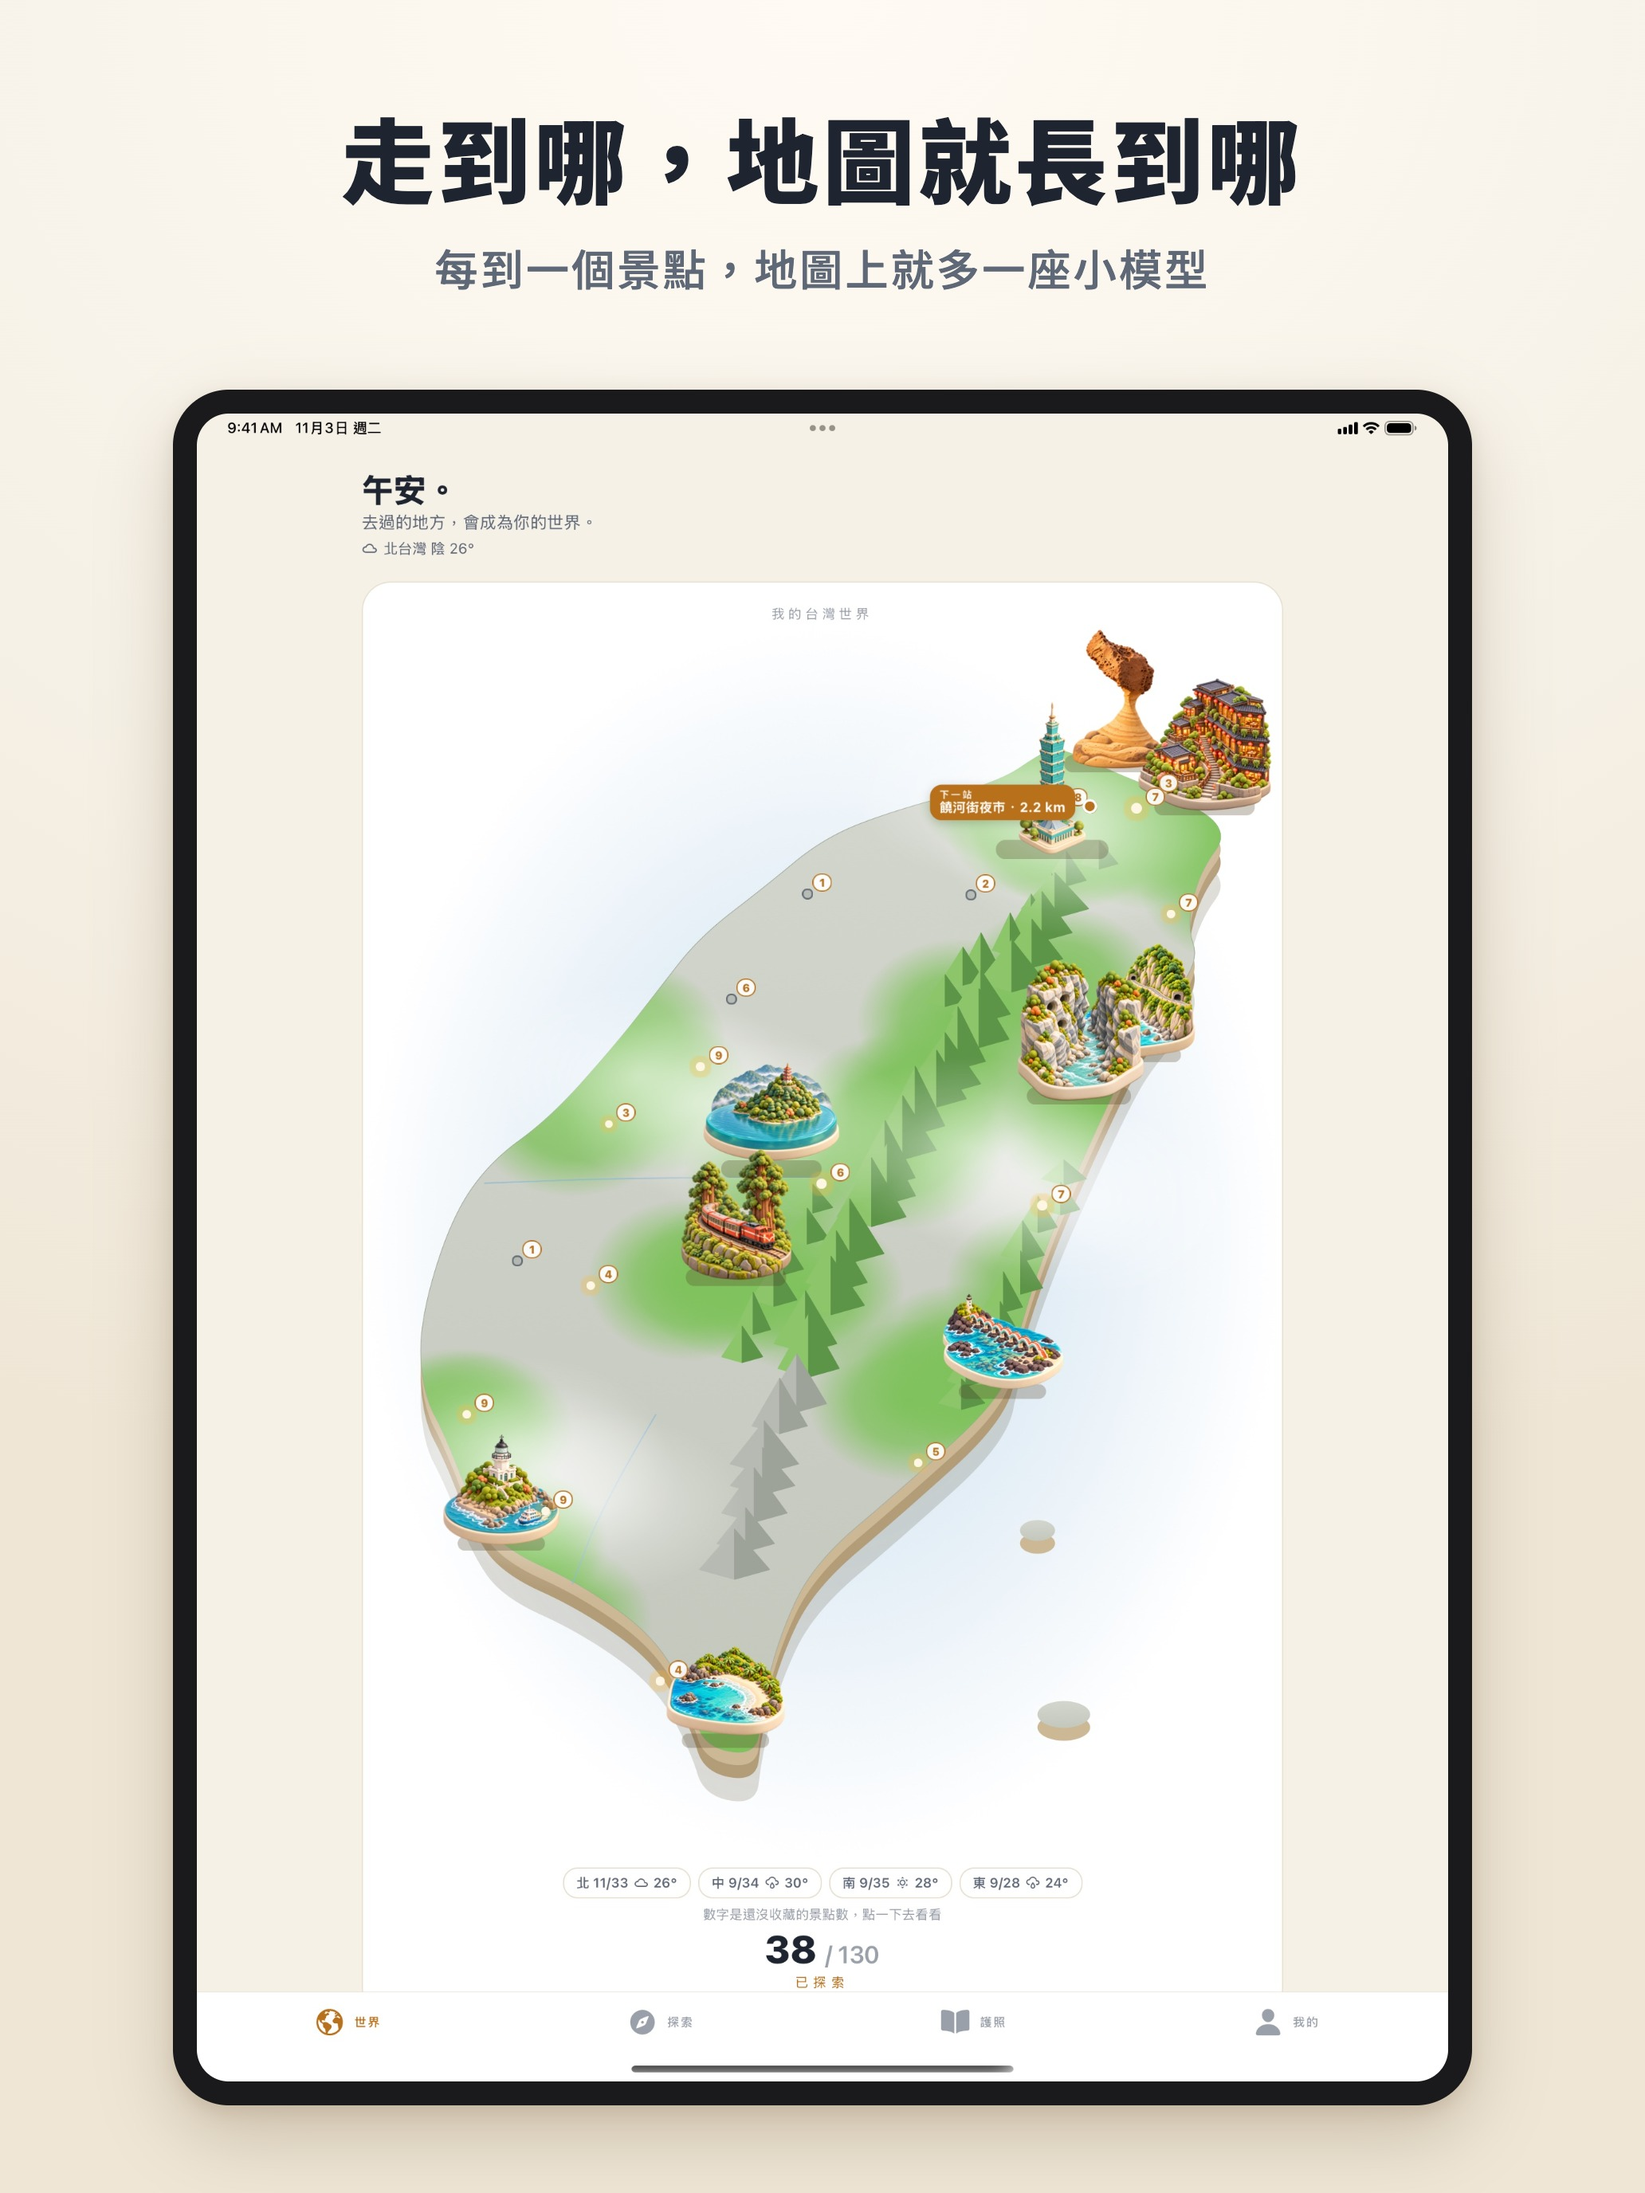
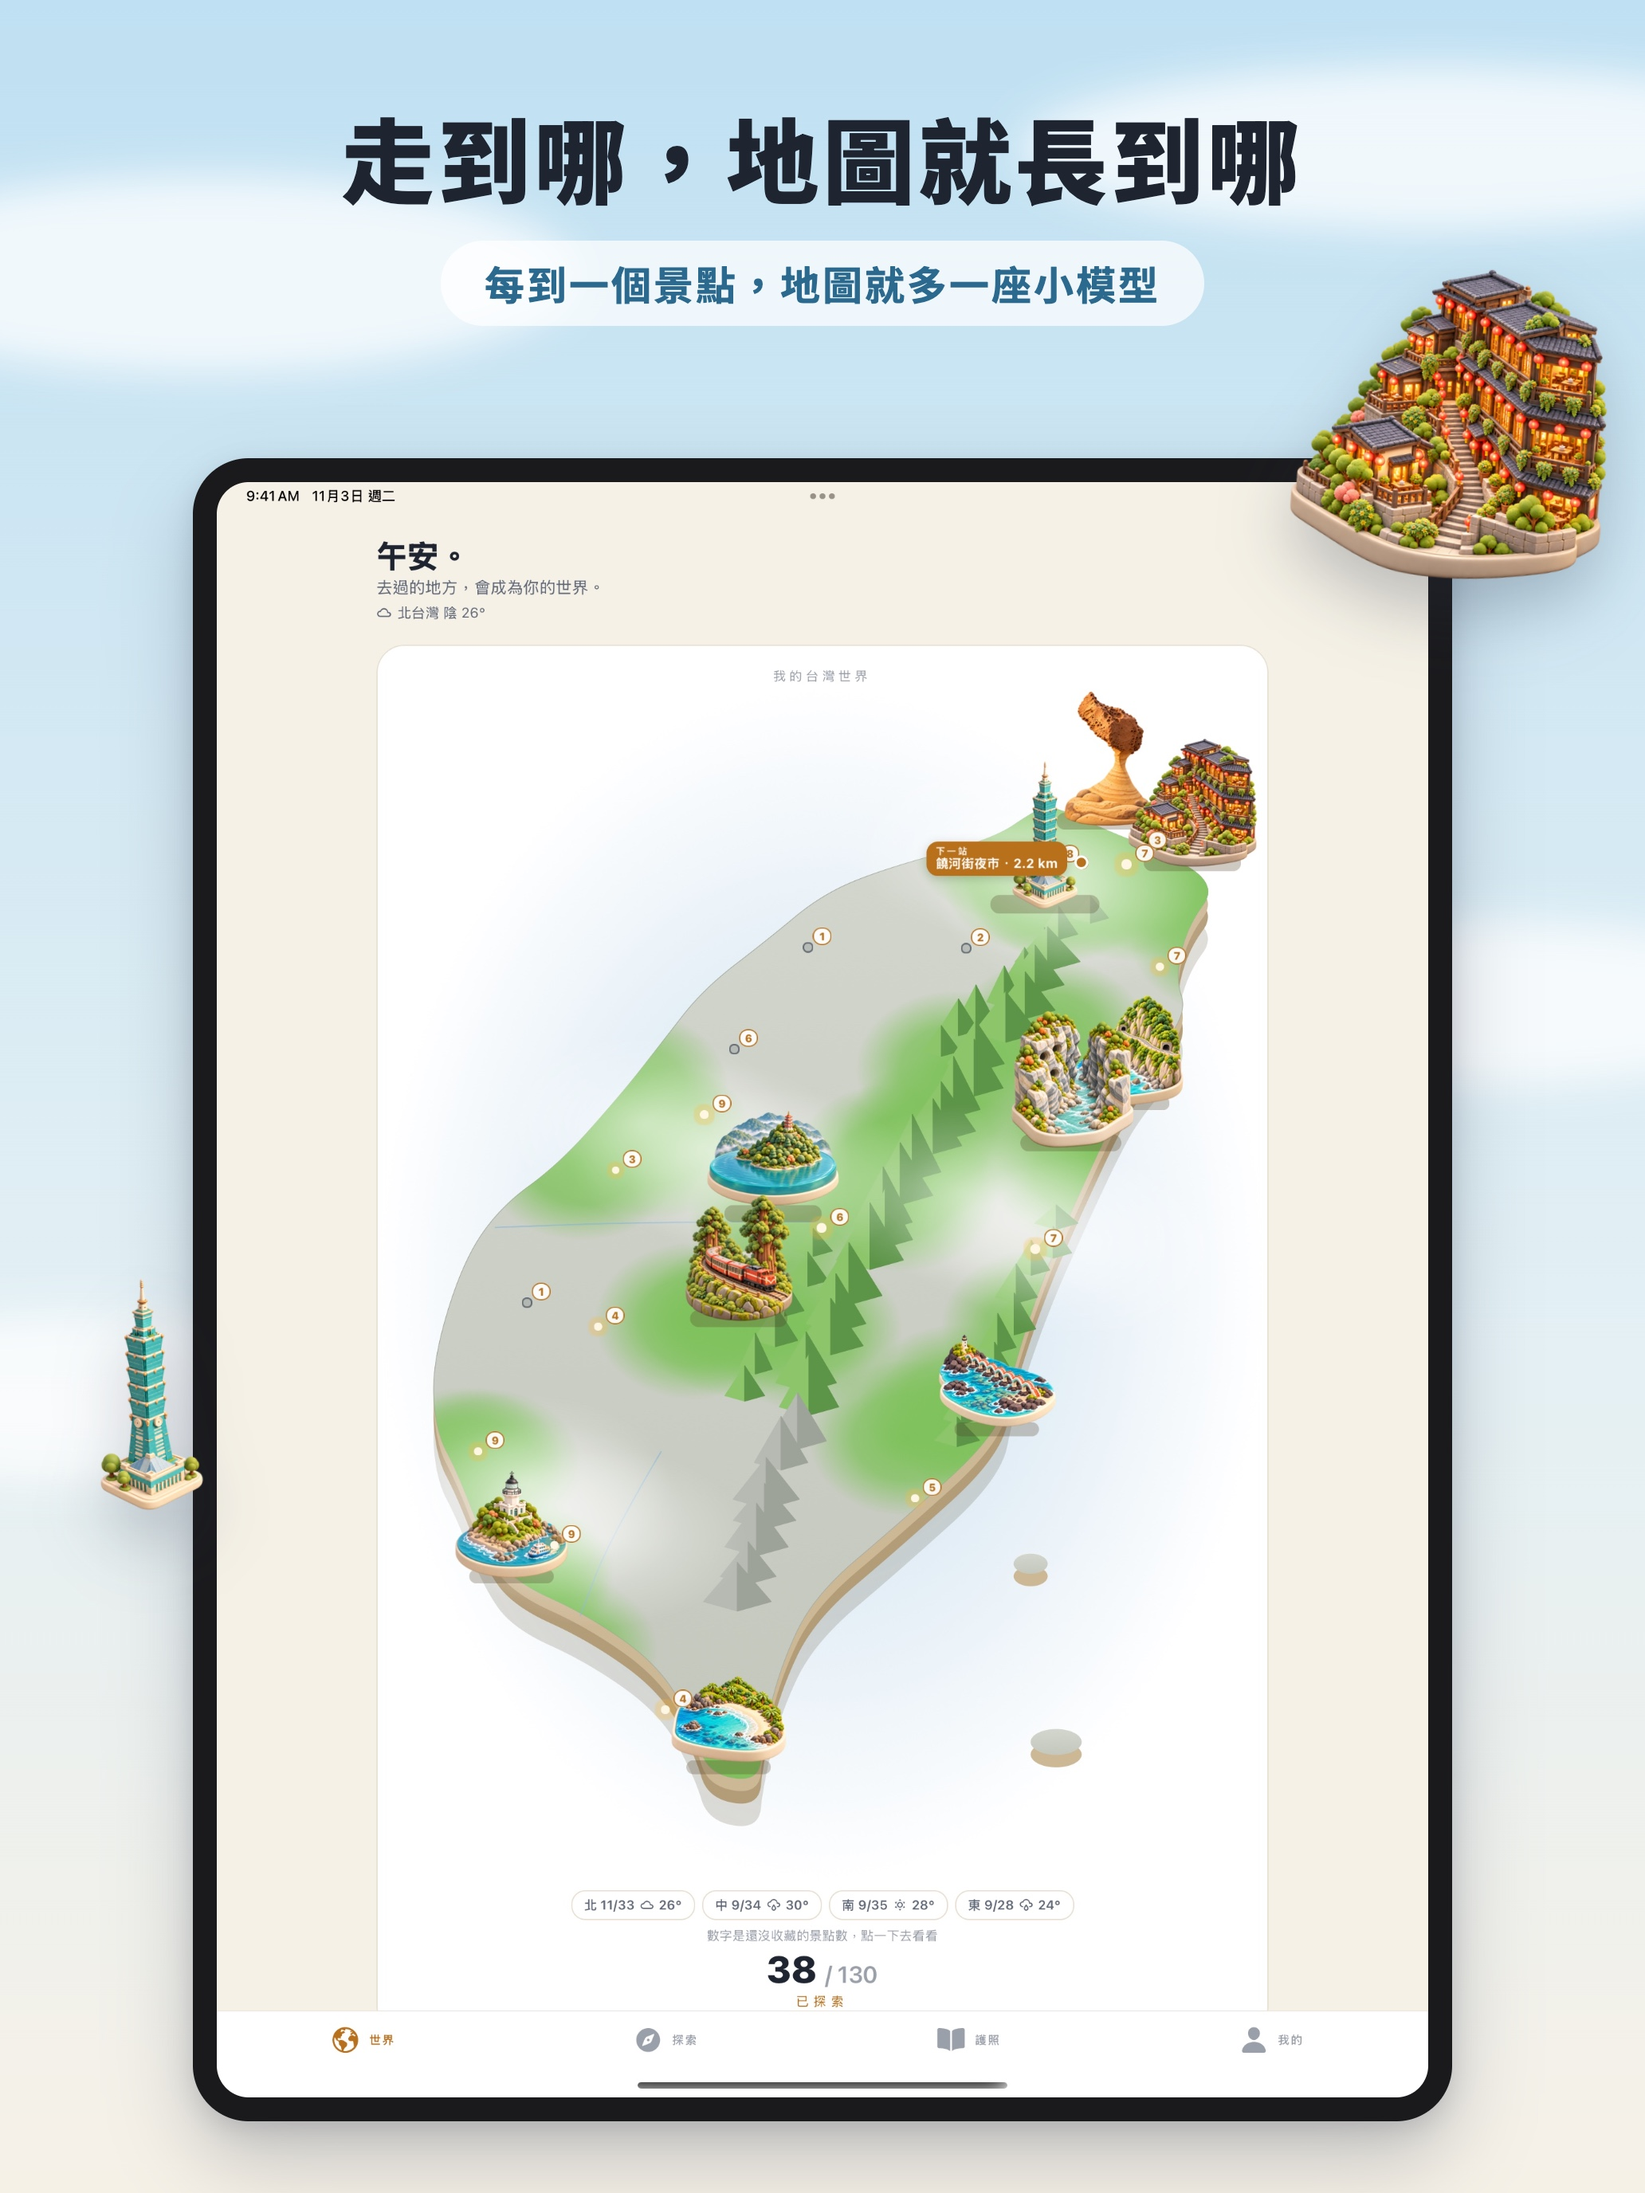
Livelier store assets: tinted backgrounds, landmark cutouts; creative assets as PNG plus 16:9 universal

diff --git a/store/marketing/templates/shot2.html b/store/marketing/templates/shot2.html
@@ -1,0 +1,28 @@
+<!doctype html><html><head><meta charset="utf-8">
+<link href="https://fonts.googleapis.com/css2?family=Noto+Sans+TC:wght@500;700;900&display=block" rel="stylesheet">
+<style>
+*{margin:0;padding:0;box-sizing:border-box}
+html,body{width:var(--W);height:var(--H);overflow:hidden;font-family:'Noto Sans TC',sans-serif}
+body{position:relative;background:linear-gradient(180deg,var(--c1) 0%,var(--c2) 62%,var(--c3) 100%)}
+.cloud{position:absolute;background:#fff;border-radius:50%;filter:blur(calc(var(--W)*.012));opacity:.75}
+.cap{position:absolute;left:0;right:0;top:calc(var(--H)*.045);text-align:center;padding:0 7%;z-index:3}
+h1{color:#1E2531;font-weight:900;font-size:var(--h1);line-height:1.25;letter-spacing:.04em}
+.pill{display:inline-block;margin-top:calc(var(--H)*.012);padding:.35em 1.1em;border-radius:999px;background:rgba(255,255,255,.72);color:var(--ink);font-weight:700;font-size:var(--p);letter-spacing:.06em}
+.dev{position:absolute;left:50%;transform:translateX(-50%);background:#1A1A1C;padding:var(--bz);border-radius:var(--r);box-shadow:0 50px 100px rgba(40,50,70,.25),0 10px 30px rgba(40,50,70,.15);z-index:1}
+.dev img{display:block;width:var(--sw);border-radius:calc(var(--r) - var(--bz))}
+.deco{position:absolute;z-index:2;filter:drop-shadow(0 calc(var(--W)*.02) calc(var(--W)*.02) rgba(40,50,70,.28))}
+.spark{position:absolute;z-index:2;color:#fff;text-shadow:0 0 30px rgba(255,190,90,.9);font-weight:900}
+</style></head><body>
+<div class="cap"><h1 id="h"></h1><div class="pill" id="s"></div></div>
+<div class="dev" id="d"><img id="i"></div>
+<script>
+const q=JSON.parse(decodeURIComponent(location.hash.slice(1)));
+const R=document.documentElement.style;const W=q.W,H=q.H;
+for(const k of['W','H','h1','p','sw','bz','r'])R.setProperty('--'+k,q[k]+'px');
+for(const k of['c1','c2','c3','ink'])R.setProperty('--'+k,q[k]);
+document.getElementById('h').textContent=q.title;document.getElementById('s').textContent=q.sub;
+document.getElementById('d').style.bottom=q.bottom+'px';document.getElementById('i').src=q.img;
+(q.clouds||[]).forEach(([x,y,w,h])=>{const c=document.createElement('div');c.className='cloud';Object.assign(c.style,{left:x*W+'px',top:y*H+'px',width:w*W+'px',height:h*W+'px'});document.body.appendChild(c)});
+(q.deco||[]).forEach(d=>{const im=new Image();im.className='deco';im.src=q.A+'/'+d.id+'/world/landmark.webp';Object.assign(im.style,{left:d.x*W+'px',top:d.y*H+'px',width:d.w*W+'px',transform:`rotate(${d.rot||0}deg)`});document.body.appendChild(im)});
+(q.sparks||[]).forEach(([x,y,s])=>{const e=document.createElement('div');e.className='spark';e.textContent='✦';Object.assign(e.style,{left:x*W+'px',top:y*H+'px',fontSize:s*W+'px'});document.body.appendChild(e)});
+</script></body></html>

diff --git a/store/marketing/templates/hero2.html b/store/marketing/templates/hero2.html
@@ -1,0 +1,23 @@
+<!doctype html><html><head><meta charset="utf-8">
+<link href="https://fonts.googleapis.com/css2?family=Noto+Sans+TC:wght@700;900&display=block" rel="stylesheet">
+<style>
+*{margin:0;padding:0;box-sizing:border-box}
+html,body{width:var(--W);height:var(--H);overflow:hidden;font-family:'Noto Sans TC',sans-serif}
+body{position:relative;background:radial-gradient(70% 38% at 50% 92%,rgba(160,210,170,.55),rgba(160,210,170,0) 100%),linear-gradient(180deg,#B9DDF1 0%,#DCEEF4 40%,#F4EEDF 72%,#EFE2C6 100%)}
+.cloud{position:absolute;background:#fff;border-radius:50%;filter:blur(calc(var(--W)*.008));opacity:.8}
+.lm{position:absolute;transform:translate(-50%,-50%);filter:drop-shadow(0 calc(var(--W)*.01) calc(var(--W)*.01) rgba(40,60,80,.25))}
+.cap{position:absolute;left:50%;transform:translate(-50%,-50%);text-align:center;white-space:nowrap}
+h1{color:#1E2531;font-weight:900;letter-spacing:.05em;text-shadow:0 2px 0 rgba(255,255,255,.6)}
+.pill{display:inline-block;padding:.35em 1.2em;border-radius:999px;background:#B8711A;color:#fff;font-weight:700;letter-spacing:.1em}
+</style></head><body>
+<div class="cap" id="cap"><h1 id="h"></h1><div class="pill" id="s"></div></div>
+<script>
+const q=JSON.parse(decodeURIComponent(location.hash.slice(1)));const W=q.W,H=q.H;
+document.documentElement.style.setProperty('--W',W+'px');document.documentElement.style.setProperty('--H',H+'px');
+(q.clouds).forEach(([x,y,w,h])=>{const c=document.createElement('div');c.className='cloud';Object.assign(c.style,{left:x*W+'px',top:y*H+'px',width:w*W+'px',height:h*W+'px'});document.body.appendChild(c)});
+q.lms.forEach(([id,x,y,w])=>{const im=new Image();im.className='lm';im.src=q.A+'/'+id+'/world/landmark.webp';Object.assign(im.style,{left:x*W+'px',top:y*H+'px',width:w*W+'px'});document.body.appendChild(im)});
+const cap=document.getElementById('cap');cap.style.left=q.cx*W+'px';cap.style.top=q.cy*H+'px';
+const h=document.getElementById('h');h.textContent=q.title;h.style.fontSize=q.h1+'px';
+const s=document.getElementById('s');s.textContent=q.sub;s.style.fontSize=q.p+'px';s.style.marginTop=q.p*.7+'px';
+document.body.appendChild(cap);
+</script></body></html>

diff --git a/store/marketing/templates/jobs2.py b/store/marketing/templates/jobs2.py
@@ -1,0 +1,28 @@
+import json
+S="/private/tmp/claude-501/-Users-a01-0220-0077-workspace-my-space-TaiwanSpots/e6056771-8125-42a3-855c-bc262f79d2fa/scratchpad/mk"; R="/Users/a01-0220-0077/workspace/my-space/TaiwanSpots/store/screenshots/zh-Hant"; A="/Users/a01-0220-0077/workspace/my-space/TaiwanSpots/assets/spots"
+CL=[[-.1,.08,.45,.12],[.62,.03,.5,.1],[.7,.42,.4,.1],[-.15,.6,.4,.1]]
+shots=[
+ ("02-home","走到哪，地圖就長到哪","每到一個景點，地圖就多一座小模型",("#BFE0F2","#E4F0F4","#F6F1E7"),"#2B6A8E",
+   [dict(id="jiufen",x=.70,y=.115,w=.33,rot=4),dict(id="taipei-101",x=-.05,y=.58,w=.24,rot=-3)],[]),
+ ("04-unlock","人到現場，才解鎖得到","用定位打卡，收下那裡的微縮地標",("#FBD99A","#FBEBCB","#F6F1E7"),"#9A5A0E",
+   [],[[.05,.19,.09],[.85,.22,.07],[.04,.52,.06],[.86,.6,.09],[.47,.155,.045],[.9,.4,.04]]),
+ ("05-passport","130 座地標，慢慢收齊","北中南東，一格一格填滿護照",("#C9E8D2","#E6F2E6","#F6F1E7"),"#2E7A4E",
+   [dict(id="sun-moon-lake",x=.66,y=.12,w=.36,rot=3),dict(id="kenting",x=-.08,y=.66,w=.3,rot=-4)],[]),
+ ("03-spot","每一座，都記得那一天","收藏的日期和天氣，都留在模型上",("#F8D3C0","#FAE6DA","#F6F1E7"),"#A2482A",
+   [dict(id="alishan",x=-.07,y=.12,w=.33,rot=-4)],[]),
+ ("06-explore","下一站，就在附近","依距離找出還沒去過的景點",("#C6DDF2","#E2ECF5","#F6F1E7"),"#2F5C8C",
+   [dict(id="yehliu",x=.74,y=.12,w=.26,rot=5),dict(id="sanxiantai",x=-.1,y=.70,w=.34,rot=-3)],[]),
+ ("07-share","做成收藏卡，分享出去","存進相簿，或傳給一起旅行的人",("#DCD2F0","#ECE6F4","#F6F1E7"),"#5B4A8E",
+   [dict(id="rainbow-village",x=.68,y=.115,w=.33,rot=4)],[]),
+]
+dev={"iphone-6.9":dict(W=1320,H=2868,h1=92,p=40,sw=1010,bz=22,r=145,bottom=60),
+     "ipad-13":dict(W=2064,H=2752,h1=116,p=50,sw=1520,bz=30,r=70,bottom=90)}
+jobs=[]
+for d,c in dev.items():
+  for n,(src,t,s,cs,ink,deco,sp) in enumerate(shots,1):
+    p=dict(c);W=p.pop('W');H=p.pop('H')
+    k=.62 if d=="ipad-13" else .9
+    deco=[dict(x,w=x['w']*k,x=((1-x['w']*k-.015) if x['x']>.5 else .015)) for x in deco]
+    p.update(title=t,sub=s,img=f"{R}/{d}/{src}.jpg",c1=cs[0],c2=cs[1],c3=cs[2],ink=ink,deco=deco,sparks=sp,clouds=CL,A=A)
+    jobs.append(dict(html=f"{S}/shot2.html",W=W,H=H,params=p,out=f"{S}/out2/{d}-{n:02d}.png"))
+json.dump(jobs,open(f"{S}/jobs2.json","w"),ensure_ascii=False)

diff --git a/store/marketing/README.md b/store/marketing/README.md
@@ -1,14 +1,17 @@
 # App Store 行銷素材
 
-依 Apple「App Store asset best practices」製作（2026-11-03）：真實 App 畫面＋一句短標語，先放最強的功能；不放價格、網址、得獎字樣。
+依 Apple「App Store asset best practices」製作（2026-11-03）：真實 App 畫面＋一句短標語＋膠囊副標，每張不同底色（天空、金黃、薄荷、蜜桃、淡紫），再放一兩個去背模型（`world/landmark.webp`）壓在手機邊框上，先放最強的功能；不放價格、網址、得獎字樣。
 
 | 資料夾 | 用途 | 尺寸 |
 |---|---|---|
 | `zh-Hant/iphone-6.9/01–06.jpg` | iPhone 截圖（繁中） | 1320×2868 |
 | `zh-Hant/ipad-13/01–06.jpg` | iPad 13 吋截圖（繁中） | 2064×2752 |
-| `zh-Hant/creative/header-21x9.jpg` | 產品頁首圖（iOS 27 起的創意素材） | 3840×1646 |
-| `zh-Hant/creative/search-3x2.jpg` | 搜尋結果圖（iOS 27 起的創意素材） | 3840×2560 |
+| `zh-Hant/creative/universal-16x9.png` | 通用創意素材：同一張可當首圖和搜尋結果（勾「Use header asset in search results」） | 5244×2950 |
+| `zh-Hant/creative/header-21x9.png` | 產品頁首圖（iOS 27 起的創意素材） | 3840×1646 |
+| `zh-Hant/creative/search-3x2.png` | 搜尋結果圖（iOS 27 起的創意素材） | 3840×2560 |
+
+創意素材一律用 PNG、不帶透明通道：2026-11-03 上傳 21:9 的 JPG 時，App Store Connect 回「副檔名無效」（雖然規格頁寫 JPG 可以）。
 
 截圖順序：首頁地圖 → 解鎖 → 護照 → 景點 → 探索 → 分享。原始畫面在 `store/screenshots/zh-Hant/`。
 
-重做：`templates/` 是 HTML 模板，`jobs.py`（截圖文案與尺寸）與 `hero-jobs.json`（首圖）產生工作清單，`node render.mjs jobs.json` 用本機 Chrome（playwright-core，`channel: 'chrome'`）輸出 JPG（沒有透明通道）。模板裡的路徑是當時的 scratchpad 與 repo 絕對路徑，重跑前改成自己的。
+重做：`templates/` 是 HTML 模板（`shot2.html` 截圖、`hero2.html` 創意素材），`jobs2.py`（截圖文案、底色、模型位置）與 `hero2.json`（創意素材的模型位置）是工作清單，`node render.mjs jobs2.json` 用本機 Chrome（playwright-core，`channel: 'chrome'`）輸出（PNG 或 JPG，都沒有透明通道）。模板裡的路徑是當時的 scratchpad 與 repo 絕對路徑，重跑前改成自己的。
